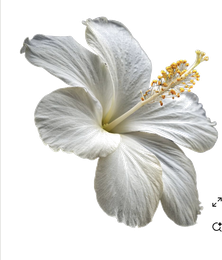
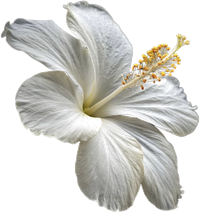
Add wallet photos to project cards, remove doodle watermark marks
- Replace project-preview placeholder images with actual wallet photos in polaroid inserts: leopard card holder (left), coin purse (middle), black croco card holder (right)
- Remove stray isolated pixels (artist stamps/watermarks) from doodle-scallop, doodle-hibiscus, and doodle-starfish PNGs using connected component analysis
- Add CSS clip-path to doodle--projects (scallop) to trim bottom 14% where residual stamp sits
- Add CSS clip-path to doodle--about (hibiscus) to trim right/bottom edges of stray fringe pixels

diff --git a/styles.css b/styles.css
@@ -510,10 +510,10 @@ a.polaroid-cta:hover svg { transform: translateX(3px); }
     filter: drop-shadow(0 8px 14px rgba(139,75,50,0.16));
     opacity: 0.92;
 }
-.doodle--about { width: 78px; top: 18px; right: 6%; transform: rotate(8deg); }
-.doodle--projects { width: 58px; top: -6px; left: 2%; transform: rotate(-10deg); }
-.doodle--skills { width: 64px; top: 4px; right: 3%; transform: rotate(9deg); }
-.doodle--contact { width: 66px; bottom: 4%; left: 1%; transform: rotate(-6deg); }
+.doodle--about { width: 118px; top: 8px; right: 6%; transform: rotate(8deg); clip-path: inset(0 4% 4% 0); }
+.doodle--projects { width: 90px; top: -14px; left: 2%; transform: rotate(-10deg); clip-path: inset(0 0 14% 0); }
+.doodle--skills { width: 98px; top: -6px; right: 3%; transform: rotate(9deg); }
+.doodle--contact { width: 100px; bottom: 3%; left: 1%; transform: rotate(-6deg); }
 
 /* ── FOOTER ── */
 footer { padding: 32px 0; border-top: 1px solid var(--border); background: var(--bg-secondary); }
@@ -670,8 +670,8 @@ footer { padding: 32px 0; border-top: 1px solid var(--border); background: var(-
 
 @media (max-width: 768px) {
     :root { --section-padding: 80px; }
-    .doodle { width: 44px !important; }
-    .doodle--about { top: 4px; right: 4%; }
+    .doodle { width: 66px !important; }
+    .doodle--about { top: 2px; right: 4%; }
     .doodle--skills { top: -4px; right: 2%; }
     .nav-links {
         display: none; position: fixed; inset: 0; top: var(--nav-height);

diff --git a/index.html b/index.html
@@ -211,7 +211,7 @@
                                 </g>
                             </svg>
                             <div class="accessory-polaroid accessory-polaroid--pm">
-                                <img src="project-preview-pm.jpg" alt="PM System preview">
+                                <img src="wallet-leopard.png" alt="Leopard card wallet">
                             </div>
                         </div>
                     </div>
@@ -257,7 +257,7 @@
                                 <rect x="190" y="66" width="20" height="14" rx="4" fill="url(#goldPRD)" transform="rotate(6 200 73)"/>
                             </svg>
                             <div class="accessory-polaroid accessory-polaroid--prd">
-                                <img src="project-preview-prd.jpg" alt="PRD Template preview">
+                                <img src="wallet-coinpurse.png" alt="Coin purse">
                             </div>
                         </div>
                     </div>
@@ -299,7 +299,7 @@
                                 <rect x="80" y="196" width="16" height="22" rx="4" fill="url(#goldMKT)" transform="rotate(-16 88 207)"/>
                             </svg>
                             <div class="accessory-polaroid accessory-polaroid--marketing">
-                                <img src="project-preview-marketing.jpg" alt="Marketing campaign preview">
+                                <img src="wallet-black.png" alt="Black card wallet">
                             </div>
                         </div>
                     </div>